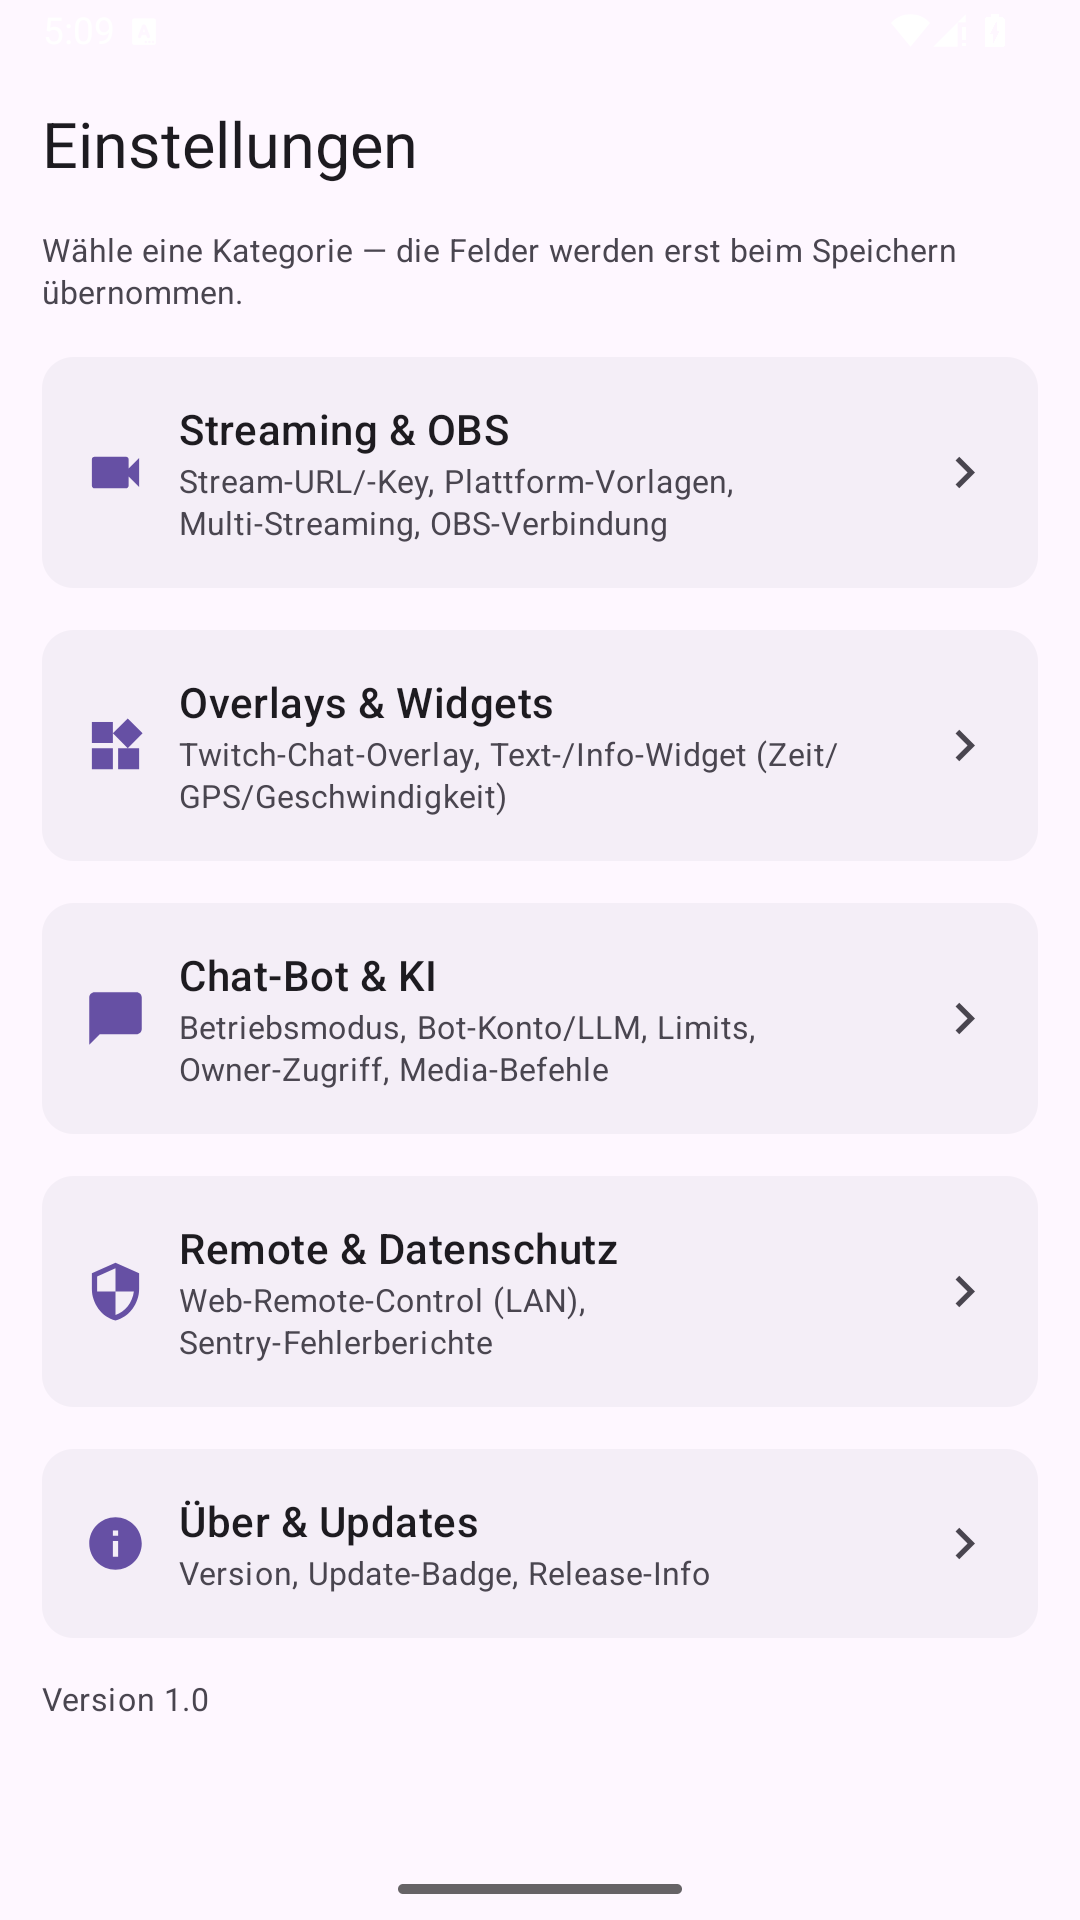
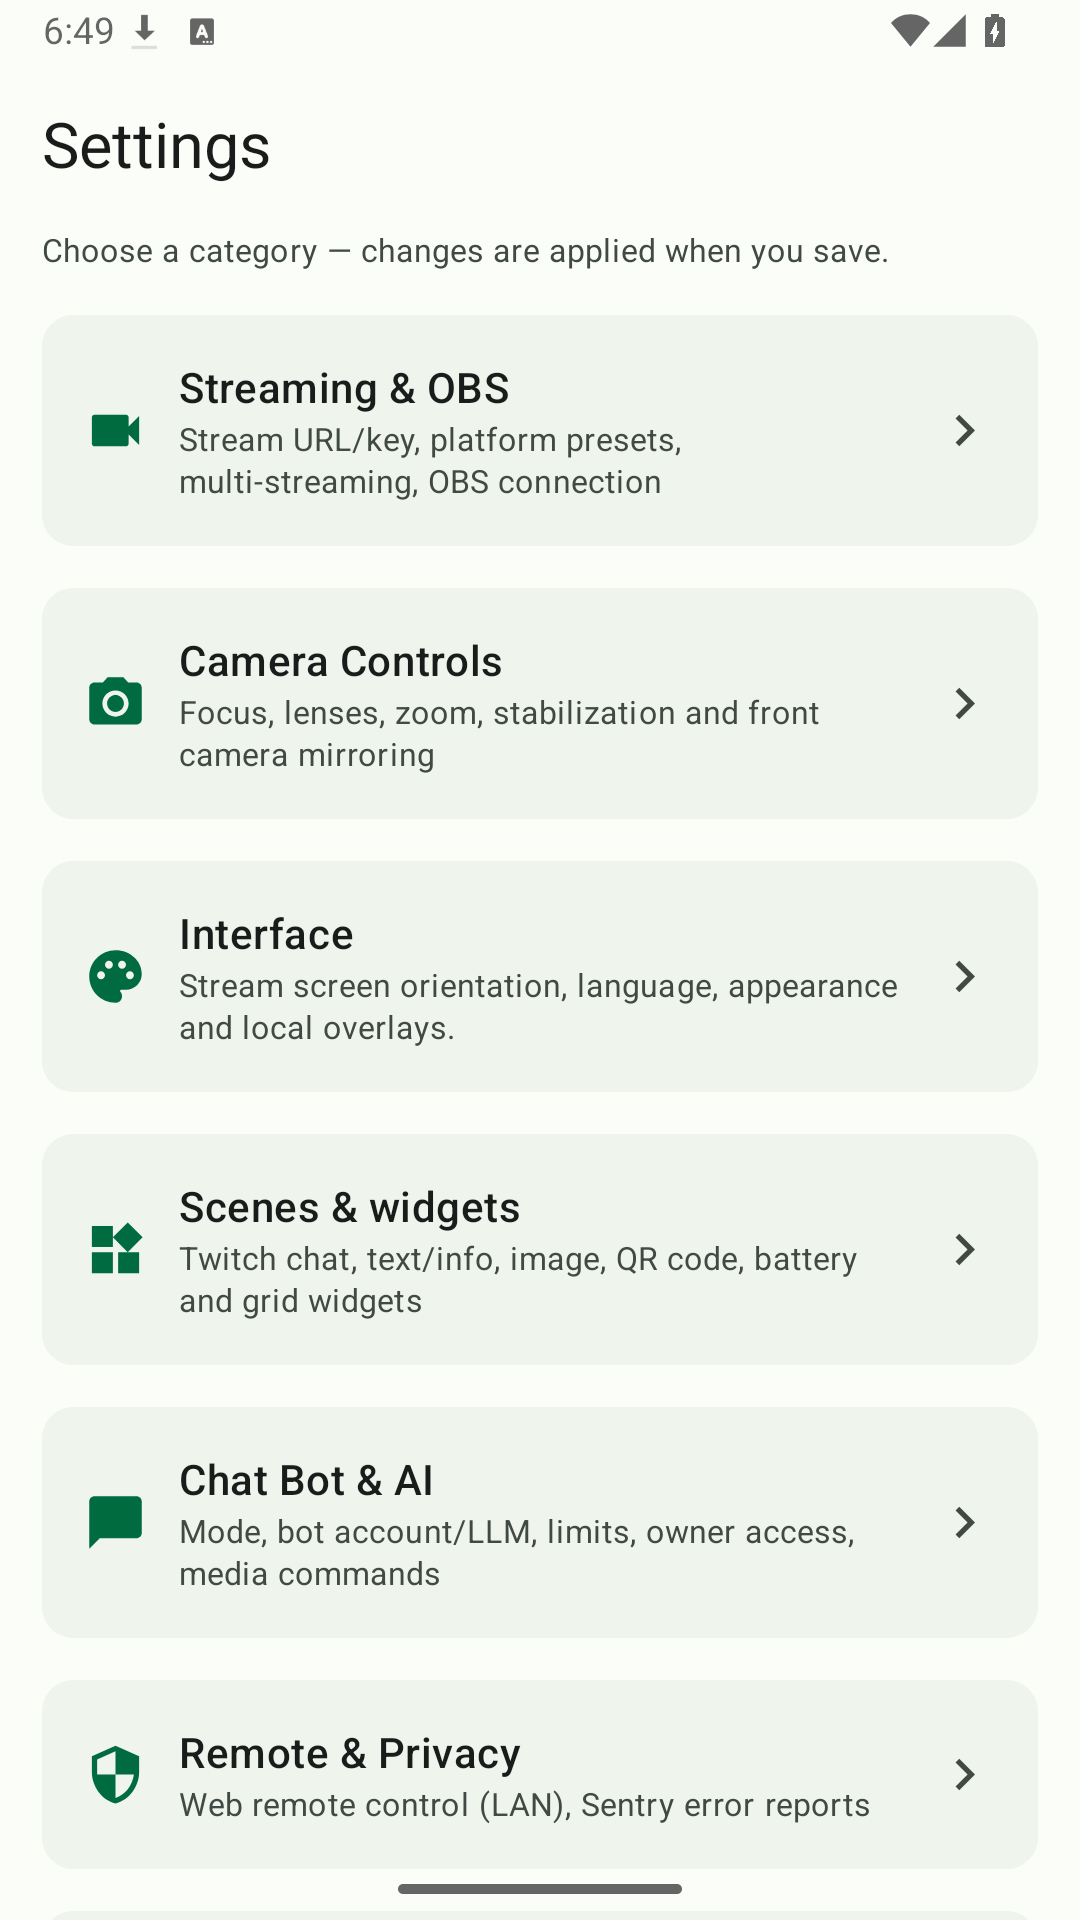
fix(fastlane): capture the Play screenshots from the flavor-specific APKs
capture_play_screenshots still addressed the pre-flavor artifacts
(app-debug.apk / app-debug-androidTest.apk) with relative paths, so screengrab
resolved them against fastlane/ and aborted with "Could not find APK file at
path 'app/build/outputs/apk/debug/app-debug.apk'". The lane now builds
assembleStandardDebug + assembleStandardDebugAndroidTest (a bare
assembleDebugAndroidTest does not exist) and passes absolute paths from the
repo root.

Screenshots re-captured on a Pixel-2-class AVD (1080x1920, 16 GB data
partition) matching the placeholder geometry; the previous emulator had ~300 MB
left on /data, which is why installing the APKs failed with "not enough space".

diff --git a/fastlane/README.md b/fastlane/README.md
@@ -111,6 +111,14 @@ Build a release AAB signed with the UPLOAD key and upload it to Google Play (req
 
 Report orphaned draft releases on v* tags (no auto-delete - a draft may be intentional)
 
+### android sync_fdroid_metadata
+
+```sh
+[bundle exec] fastlane android sync_fdroid_metadata
+```
+
+Record an existing release tag in fdroid/metadata/com.vivid.foss.yml (idempotent, schreibt die Datei, committet nichts)
+
 ### android capture_play_screenshots
 
 ```sh
